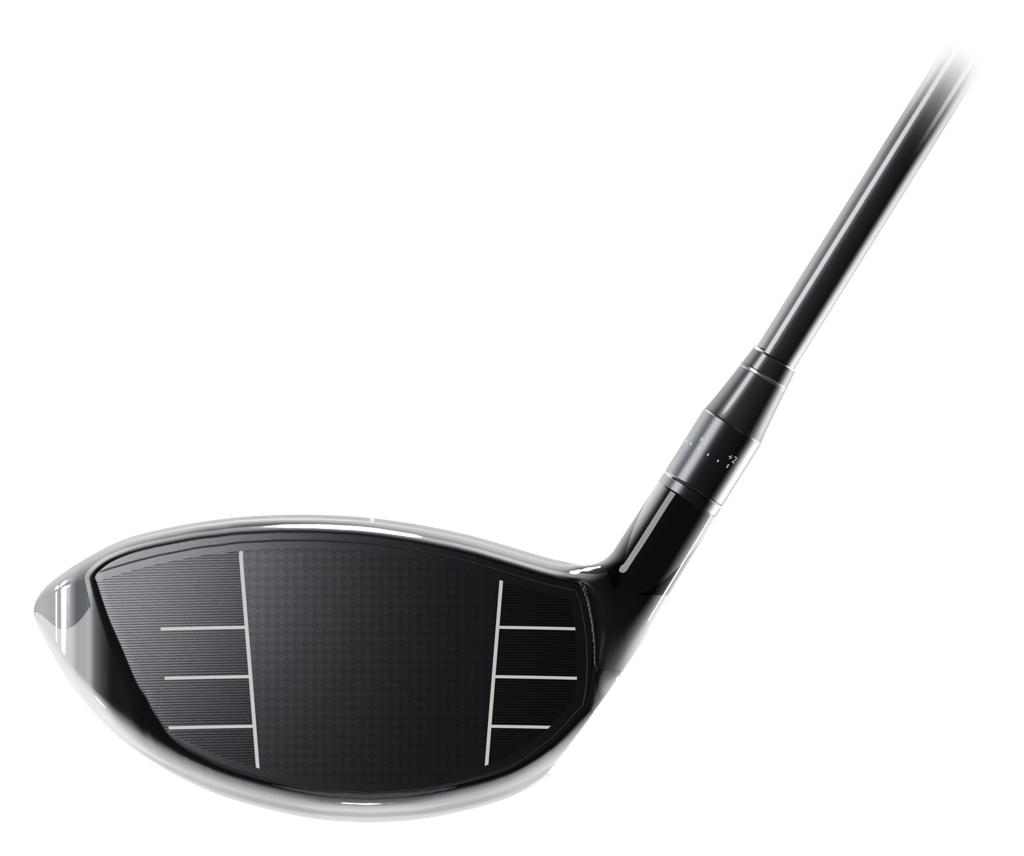
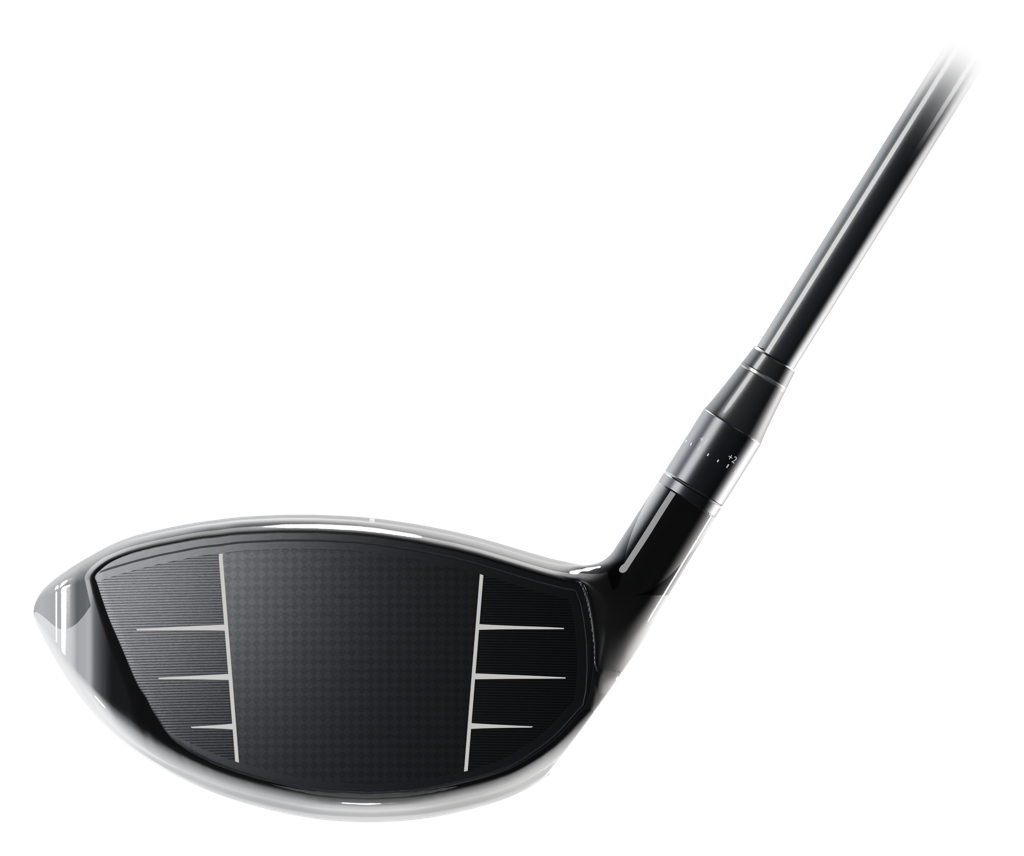
Launch monitor: re-vendor the club art from Resources b3f7558
Brings in the three Resources commits since a8c52c3, via tools/lm_art/vendor.sh:

- Driver (b3f7558): GT2-style face pattern, moved 4 mm toward the toe;
  side lines end 4 mm inside the face edge and taper.
- Hybrid (175f3de, 18a2585): TSR2-style rounded heel face reaching about
  7 mm further into the heel; shorter hosel, set back behind the face.

Only driver and hybrid files change; the 3 wood, iron, wedge and ball art is
byte-identical. Still 98 files, 12.3 MB. Before/after renders of the panel
for all five heads: the driver and hybrid change only in their club figures,
and the 3 wood, iron and wedge renders are pixel-identical.

diff --git a/src/Gui/resources/lm/VENDORED.md b/src/Gui/resources/lm/VENDORED.md
@@ -3,9 +3,9 @@
 Copied by `tools/lm_art/vendor.sh` from the PinPoint Golf **Resources** repository (MIT, see
 `LICENSE` here), and not edited by hand. Re-run the script to update; do not touch these files.
 
-- **Resources commit:** `a8c52c3b78bfa1c044c276491a15219db8475644` — Clubheads: crop wood faces at the hosel, drop the iron badges
+- **Resources commit:** `b3f7558fa01817384d9602d513655343820e2f2f` — Driver: GT2-style face pattern, centred, lines to the edge
 - **Vendored:** 2026-10-19
-- **Files:** 98 (12268 KB in all, of which PNG 12152 KB; budget 15 MB)
+- **Files:** 98 (12292 KB in all, of which PNG 12176 KB; budget 15 MB)
 - **PNG long side:** heads 1024 px, ball 768 px (sources are 2048 px). Anchor JSON is
   copied verbatim; `LmClubArt::anchors()` rescales its pixel fields to the vendored image size
   at run time, so the JSON and the PNG can never disagree.
@@ -34,7 +34,7 @@ So the screen asks for at most ~6 physical px/mm. The face view at 1024 px gives
 |---|---|---|---|---|
 | driver | 2048×1712 → 1024×856 | 10.09 | 5.04 | 121.8 |
 | fairway | 2048×1742 → 1024×871 | 11.49 | 5.75 | 102.7 |
-| hybrid | 2048×1855 → 1024×928 | 12.36 | 6.18 | 88.7 |
+| hybrid | 2048×1780 → 1024×890 | 12.94 | 6.47 | 88.1 |
 | iron | 2048×1935 → 1024×968 | 12.70 | 6.35 | 97.8 |
 | wedge | 2048×1989 → 1024×994 | 11.80 | 5.90 | 98.2 |
 
